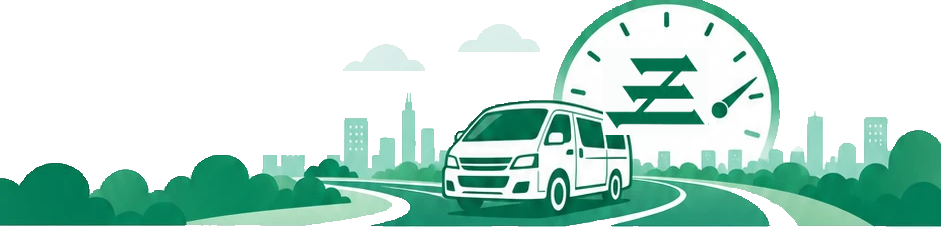
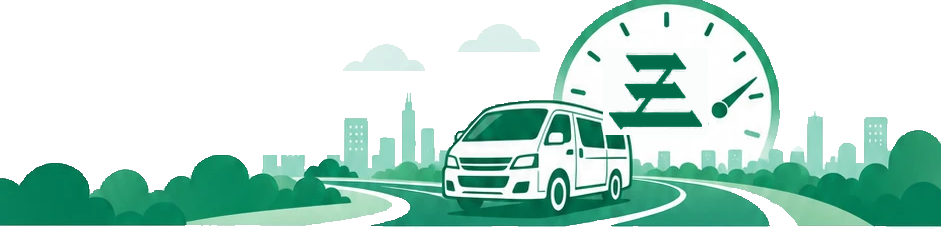
ヘッダーロゴのマーク形状を修正、画像を左右いっぱいに表示
- logo-lockup.png/logo-lockup-dark.pngのマークが、指定の参照画像に
  比べて縦横比が微妙に違っていた(実測で幅高さ比1.33 対 参照1.23)。
  参照画像から改めてマークを切り出し、両ファイルに配置し直した
- detail-hero.pngのマークも同じ切り出し元に統一
- ホーム画面のヒーロー画像・車両管理画面のイラストが、記録一覧側と
  違って左右に余白があり見切れて見えていたのを、記録一覧と同じ
  左右いっぱいの表示に統一(はみ出し用の負のマージンで実装)
- logo-lockup/detail-heroの画像URLにもキャッシュバスティング用の
  バージョンを追加

Changed region(s): [[0.6472, 0.214, 0.7705, 0.5808]]

diff --git a/index.html b/index.html
@@ -11,12 +11,12 @@
 <link rel="apple-touch-icon" href="icon-180.png">
 <link rel="icon" type="image/png" sizes="32x32" href="icon-32.png">
 <link rel="icon" type="image/png" sizes="512x512" href="icon-512.png">
-<link rel="stylesheet" href="style.css?v=8">
+<link rel="stylesheet" href="style.css?v=9">
 </head>
 <body>
 
 <div id="loadingView" class="loadingView">
-  <img src="hero-illustration.png?v=13" class="loadingHeroImg" alt="">
+  <img src="hero-illustration.png?v=14" class="loadingHeroImg" alt="">
   <div class="loadingTitle">走行距離メモ</div>
   <div id="loadingSpinner" class="spinner"></div>
   <div id="loadingText" class="loadingText">読み込み中...</div>
@@ -25,8 +25,8 @@
 <div id="homeView" class="view" hidden>
   <header class="homeHeader">
     <div class="homeLogoWrap">
-      <img src="logo-lockup.png" class="homeLogoLockup logoLight" alt="走行記録">
-      <img src="logo-lockup-dark.png" class="homeLogoLockup logoDark" alt="走行記録">
+      <img src="logo-lockup.png?v=14" class="homeLogoLockup logoLight" alt="走行記録">
+      <img src="logo-lockup-dark.png?v=14" class="homeLogoLockup logoDark" alt="走行記録">
     </div>
     <div class="homeHeaderActions">
       <button id="themeToggleBtn" class="navBtn" aria-label="テーマ切替"></button>
@@ -34,7 +34,7 @@
   </header>
 
   <div class="homeBody">
-    <img src="hero-illustration.png?v=13" class="homeHeroImg" alt="">
+    <img src="hero-illustration.png?v=14" class="homeHeroImg" alt="">
 
     <div class="homeStats">
       <div class="homeStatCard">
@@ -93,7 +93,7 @@
   </header>
 
   <div class="listHero">
-    <img src="detail-hero.png" class="listHeroImg" alt="">
+    <img src="detail-hero.png?v=14" class="listHeroImg" alt="">
   </div>
 
   <div class="periodNavBar">
@@ -242,7 +242,7 @@
   </header>
 
   <div class="listHero">
-    <img src="detail-hero.png" class="listHeroImg" alt="">
+    <img src="detail-hero.png?v=14" class="listHeroImg" alt="">
   </div>
 
   <div class="detailBody">
@@ -341,6 +341,6 @@
   </div>
 </div>
 
-<script src="app.js?v=13"></script>
+<script src="app.js?v=14"></script>
 </body>
 </html>

diff --git a/style.css b/style.css
@@ -213,9 +213,8 @@ html, body {
 }
 
 .homeHeroImg {
-  width: 100%;
-  max-width: 420px;
-  margin: 0 auto;
+  width: calc(100% + 32px);
+  margin: 0 -16px;
   display: block;
 }
 
@@ -821,12 +820,11 @@ html, body {
 }
 
 .vehiclePanelImg {
-  width: 100%;
-  max-width: 420px;
+  width: calc(100% + 32px);
   min-width: 0;
-  margin: 0 auto 4px;
+  margin: 0 -16px 4px;
   display: block;
-  border-radius: 10px;
+  border-radius: 0;
   overflow: hidden;
 }
 

diff --git a/app.js b/app.js
@@ -2,7 +2,7 @@
 
 // index.htmlのapp.js/style.css読み込み時の?v=番号と合わせて手動更新する
 // (実際にこのapp.jsが読み込まれて実行された、という一番確実な証拠になる)
-const APP_VERSION = 13;
+const APP_VERSION = 14;
 
 /* ---------- アイコン ---------- */
 
